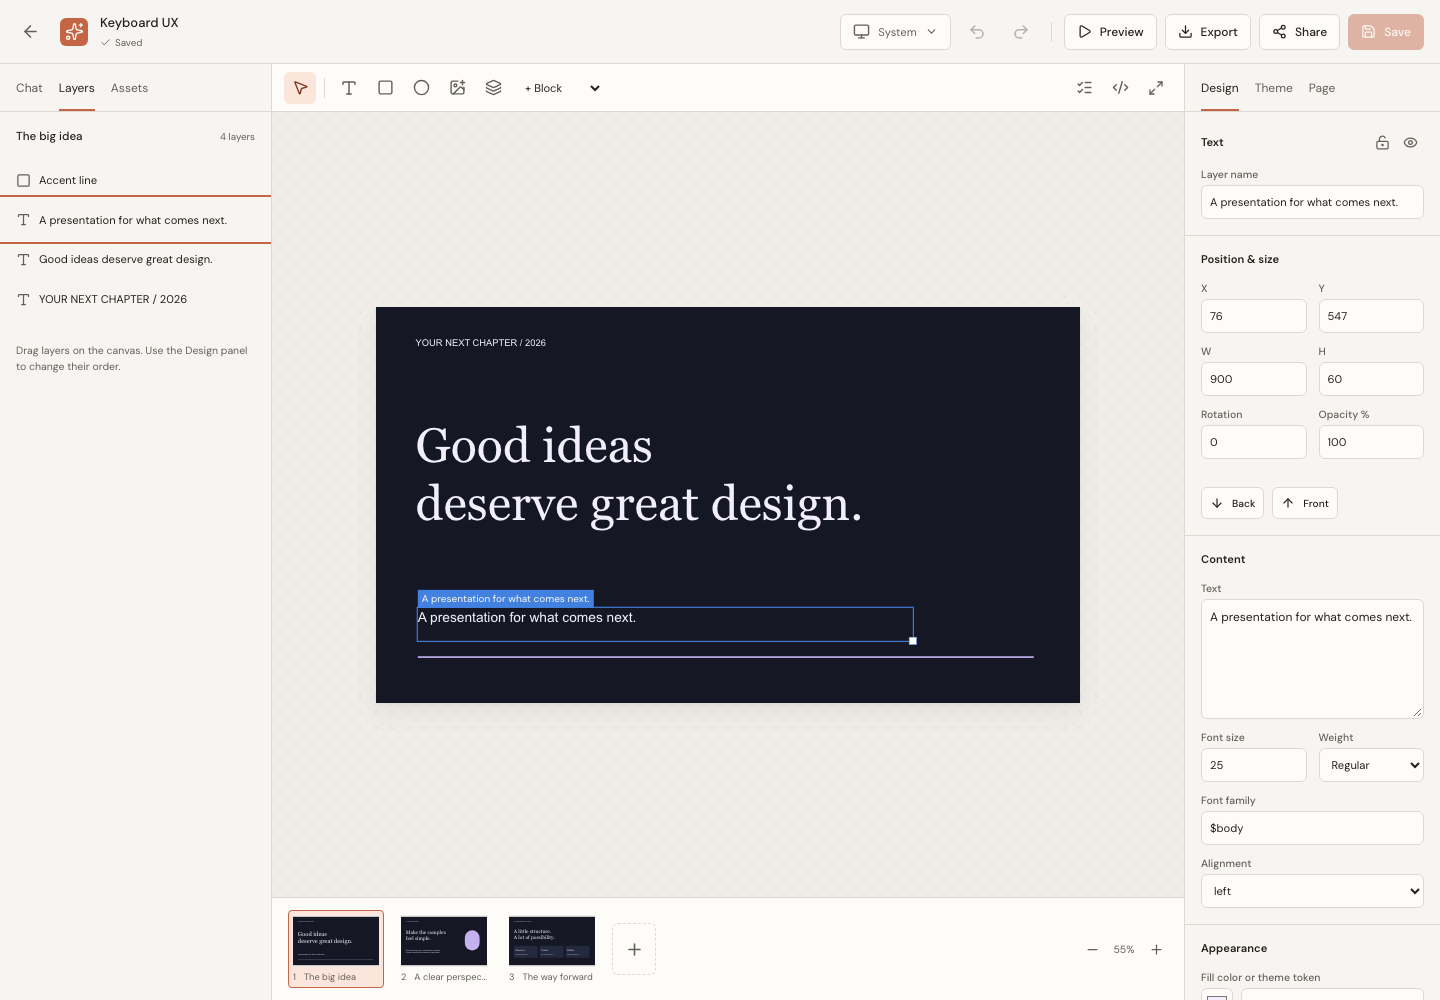
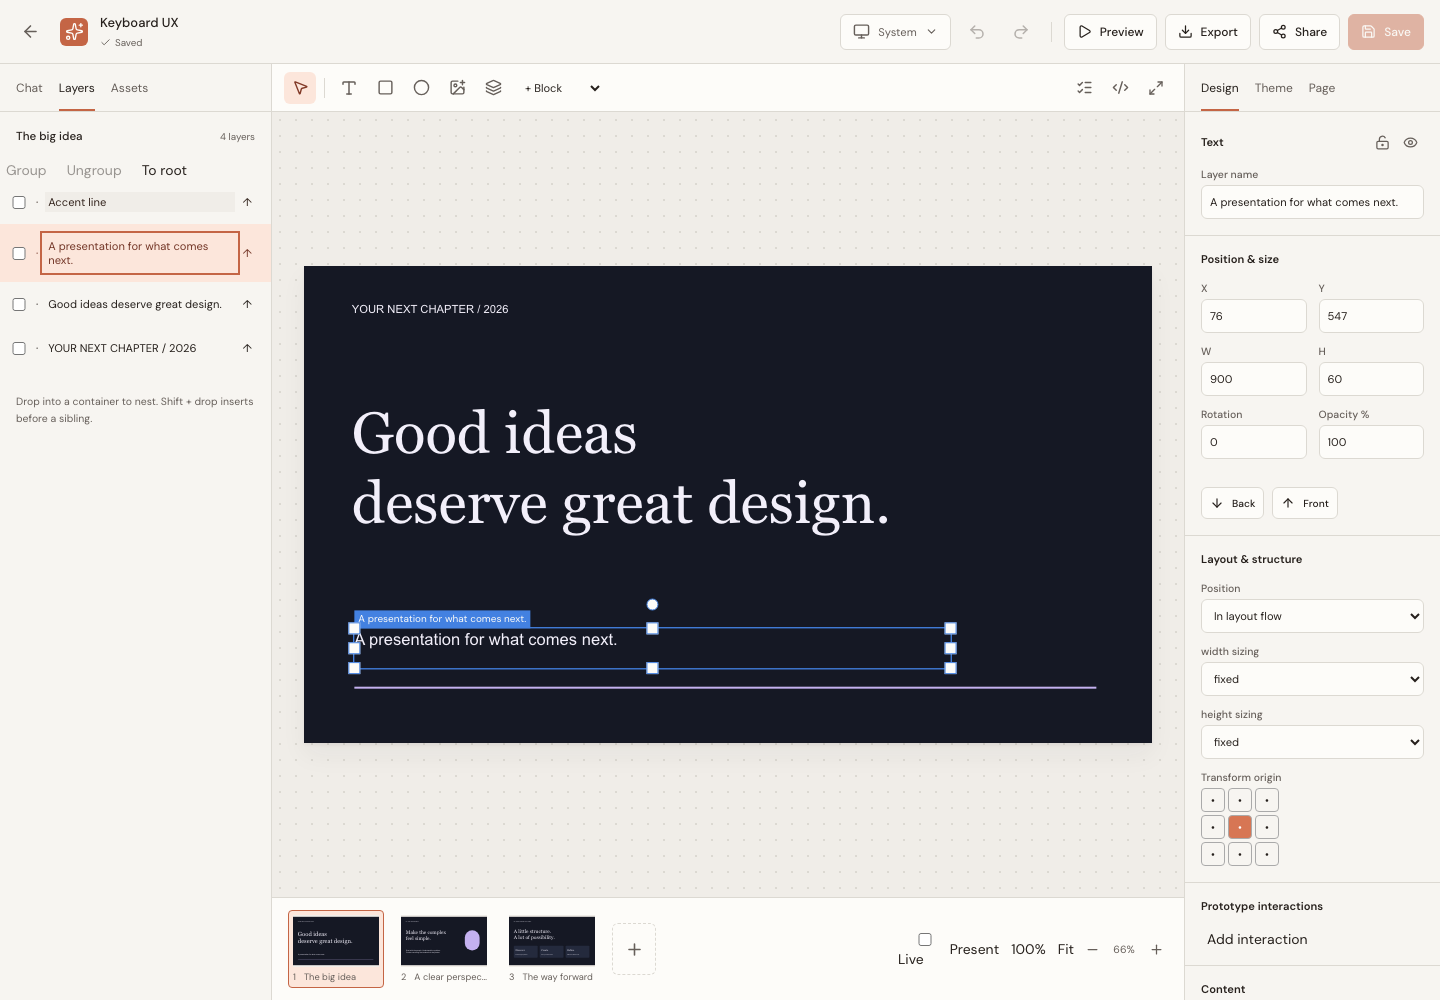
fix(studio): preserve keyboard workflows and release 0.2.2

diff --git a/src/app/scene-view.tsx b/src/app/scene-view.tsx
@@ -24,7 +24,7 @@ export function SceneView({ page, theme, selected, onSelect, doc, pageIndex = 0,
       if (gizmo) { scene?.remove(gizmo.getHelper()); gizmo.dispose(); gizmo = undefined; }
       orbit?.dispose(); orbit = undefined;
       if (scene) { disposeScene(scene); scene = undefined; }
-      if (renderer) { renderer.dispose(); renderer.domElement.remove(); renderer = undefined; }
+      if (renderer) { renderer.dispose(); renderer.forceContextLoss(); renderer.domElement.remove(); renderer = undefined; }
     };
     setError('');
     void (async () => {
@@ -35,7 +35,9 @@ export function SceneView({ page, theme, selected, onSelect, doc, pageIndex = 0,
         renderer = new THREE.WebGLRenderer({ antialias: true, preserveDrawingBuffer: true });
         renderer.setPixelRatio(Math.min(devicePixelRatio, 2)); renderer.shadowMap.enabled = true; element.appendChild(renderer.domElement);
         orbit = new OrbitControls(camera, renderer.domElement); orbit.target.copy(target); orbit.enableDamping = true; orbit.enabled = mode === 'object';
+        let needsRender = true;
         gizmo = new TransformControls(camera, renderer.domElement); gizmo.setMode(transform); scene.add(gizmo.getHelper());
+        gizmo.addEventListener('change', () => { needsRender = true; });
         const object = selected ? objects.get(selected) : undefined;
         if (object && mode === 'object' && onUpdate) gizmo.attach(object);
         let draggedGizmo = false;
@@ -78,7 +80,7 @@ export function SceneView({ page, theme, selected, onSelect, doc, pageIndex = 0,
             const previous = handlers.current.selection; select(event.shiftKey ? values.every(v => previous.includes(v)) ? previous.filter(v => !values.includes(v)) : [...new Set([...previous, ...values])] : values);
           }
         });
-        const resize = () => { renderer?.setSize(element.clientWidth, element.clientHeight); camera.aspect = element.clientWidth / Math.max(1, element.clientHeight); camera.updateProjectionMatrix(); };
+        const resize = () => { renderer?.setSize(element.clientWidth, element.clientHeight); camera.aspect = element.clientWidth / Math.max(1, element.clientHeight); camera.updateProjectionMatrix(); needsRender = true; };
         observer = new ResizeObserver(resize); observer.observe(element); resize();
         let renderedTime = NaN, previousSelection: number[] | undefined;
         renderer.setAnimationLoop(() => {
@@ -86,14 +88,19 @@ export function SceneView({ page, theme, selected, onSelect, doc, pageIndex = 0,
           const current = handlers.current, timeChanged = renderedTime !== current.time;
           if (timeChanged && !gizmo?.dragging) { animateScene(scene, current.document, pageIndex, current.time); renderedTime = current.time; }
           scene.updateMatrixWorld(true);
-          if (mesh && selectedPoints && (timeChanged || previousSelection !== current.selection)) {
+          const selectionChanged = previousSelection !== current.selection;
+          if (mesh && selectedPoints && (timeChanged || selectionChanged)) {
             const index = mesh.geometry.index, count = mesh.geometry.getAttribute('position').count;
             const ids = [...new Set(current.mode === 'face' && index ? current.selection.flatMap(i => i * 3 + 2 < index.count ? [index.getX(i * 3), index.getX(i * 3 + 1), index.getX(i * 3 + 2)] : []) : current.selection)].filter(i => i < count);
             const points = ids.flatMap(i => mesh.getVertexPosition(i, point).toArray()); selectedPoints.geometry.dispose(); selectedPoints.geometry = new THREE.BufferGeometry(); selectedPoints.geometry.setAttribute('position', new THREE.Float32BufferAttribute(points, 3));
             if (vertexPoints && mesh instanceof THREE.SkinnedMesh) { const position = vertexPoints.geometry.getAttribute('position'); for (let i = 0; i < count; i++) { mesh.getVertexPosition(i, point); position.setXYZ(i, point.x, point.y, point.z); } position.needsUpdate = true; vertexPoints.geometry.computeBoundingSphere(); }
             previousSelection = current.selection;
           }
-          orbit.update(); renderer.render(scene, camera);
+          // Static authoring should not continuously redraw shadows and skinned meshes.
+          // Orbit damping, transforms, selection, resize and playback still invalidate the view.
+          const cameraChanged = orbit.update();
+          if (needsRender || timeChanged || selectionChanged || cameraChanged) { renderer.render(scene, camera); needsRender = false; }
+          previousSelection = current.selection;
         });
       } catch (e) { cleanup(); if (!disposed) setError(e instanceof Error ? e.message : 'WebGL unavailable'); }
     })();

diff --git a/tests/workspace.spec.ts b/tests/workspace.spec.ts
@@ -52,6 +52,8 @@ test('register, sign in, edit and save a template, find, duplicate, publish and 
     ownedProjects.add(project.id);
     expect(project.document.pages[0].nodes.length).toBeGreaterThan(3);
     await expect(page.getByRole('button', { name: 'Back to workspace' })).toBeVisible();
+    // This workflow verifies the explicit Save response; live autosave has its own coverage.
+    await page.getByRole('checkbox', { name: 'Live', exact: true }).uncheck();
     await fitsViewport(page);
     await page.getByRole('button', { name: 'Add text', exact: true }).click();
     if (mobile) await page.locator('.mobile-editor-nav').getByRole('button', { name: 'Design', exact: true }).click();
@@ -108,10 +110,9 @@ test('register, sign in, edit and save a template, find, duplicate, publish and 
       const published = await publicPage.goto(publicUrl);
       expect(published?.status()).toBe(200);
       const textNode = savedProject.document.pages[0].nodes.find(node => node.text === text)!;
-      const publishedText = publicPage.locator(`[data-node-id="${textNode.id}"] text`);
+      const publishedText = publicPage.locator(`[data-design-node="${textNode.id}"]`);
       await expect(publishedText).toBeVisible();
-      // SVG lays wrapped lines in separate tspans without DOM whitespace.
-      expect((await publishedText.locator('tspan').allTextContents()).join(' ')).toBe(text);
+      await expect(publishedText).toHaveText(text);
     } finally { await publicContext.close(); }
     await page.getByRole('button', { name: 'Close dialog', exact: true }).click();
     await page.getByRole('button', { name: 'Export', exact: true }).click();

diff --git a/tests/keyboard-ux.spec.ts b/tests/keyboard-ux.spec.ts
@@ -10,6 +10,7 @@ test.beforeEach(async ({ page, baseURL }) => {
   const { project } = await response.json();
   await page.goto(`/?project=${project.id}`);
   await expect(page.locator('.node-target').first()).toBeVisible();
+  await page.getByRole('checkbox', { name: 'Live', exact: true }).uncheck();
 });
 
 async function mobilePanel(page: Page, name: string) {
@@ -116,8 +117,10 @@ test('ordinary controls and preview do not inherit destructive canvas shortcuts'
   await page.getByRole('button', { name: 'Edit', exact: true }).click();
   await expect(page.locator('.node-target')).toHaveCount(count);
   await expect(page.getByRole('button', { name: 'Save', exact: true })).toBeDisabled();
-  // The actual canvas remains an editing context.
-  await target.click();
+  // Click the body away from the new middle-edge transform handles, which
+  // overlap the center of short text nodes at the mobile fit scale.
+  const bounds = (await target.boundingBox())!;
+  await target.click({ position: { x: bounds.width / 4, y: bounds.height / 2 } });
   await expect(target).toBeFocused();
   await page.keyboard.press('ArrowRight');
   await expect(page.getByRole('button', { name: 'Save', exact: true })).toBeEnabled();

diff --git a/tests/advanced-editor-ui.spec.ts b/tests/advanced-editor-ui.spec.ts
@@ -1,12 +1,11 @@
-import { test, expect, type Page, type TestInfo } from '@playwright/test';
-import { randomUUID } from 'node:crypto';
+import { test, expect } from './authenticated-browser';
+import type { Page, TestInfo } from '@playwright/test';
 import { createDocument } from '../src/shared/catalog';
 import type { DesignDocument, Project } from '../src/shared/schema';
 import type { DesignSystem } from '../src/shared/design-systems';
 
 async function setup(page: Page, baseURL: string, document: DesignDocument) {
   const headers = { Origin: new URL(baseURL).origin };
-  expect((await page.request.post('/api/auth/register', { headers, data: { email: `advanced-${randomUUID()}@studio.test`, password: randomUUID() + randomUUID() } })).status()).toBe(201);
   const response = await page.request.post('/api/projects', { headers, data: { name: document.name, kind: document.kind, document } });
   expect(response.status()).toBe(201);
   const project = (await response.json() as { project: Project }).project;

diff --git a/tests/structured-editor-ui.spec.ts b/tests/structured-editor-ui.spec.ts
@@ -1,12 +1,11 @@
-import { test, expect, type Page, type TestInfo } from '@playwright/test';
+import { test, expect } from './authenticated-browser';
+import type { Page, TestInfo } from '@playwright/test';
 import { randomUUID } from 'node:crypto';
 import { createDocument } from '../src/shared/catalog';
 import type { DesignDocument, Project } from '../src/shared/schema';
 
 async function createProject(page: Page, baseURL: string, document: DesignDocument) {
   const headers = { Origin: new URL(baseURL).origin };
-  const registration = await page.request.post('/api/auth/register', { headers, data: { email: `structured-${randomUUID()}@studio.test`, password: randomUUID() + randomUUID() } });
-  expect(registration.status()).toBe(201);
   const response = await page.request.post('/api/projects', { headers, data: { name: document.name, kind: document.kind, document } });
   expect(response.status()).toBe(201);
   return (await response.json() as { project: Project }).project;

diff --git a/src/shared/api-reference.ts b/src/shared/api-reference.ts
@@ -54,6 +54,6 @@ export function openApiDocument(schemas: Record<string, unknown>) {
       responses: { '2XX': { description: 'Success; exports return file bytes with Content-Type and Content-Disposition' }, '400': { description: 'Invalid request' }, '401': { description: 'Authentication required' }, '403': { description: 'Insufficient scope' }, '404': { description: 'Resource not found' }, '409': { description: 'Revision or merge conflict' } },
     };
   }
-  return { openapi: '3.1.0', info: { title: 'Design Studio AI', version: '0.2.0' }, servers: [{ url: '/' }], security: [{ bearerAuth: [] }],
+  return { openapi: '3.1.0', info: { title: 'Design Studio AI', version: '0.2.2' }, servers: [{ url: '/' }], security: [{ bearerAuth: [] }],
     components: { securitySchemes: { bearerAuth: { type: 'http', scheme: 'bearer' } }, schemas: Object.fromEntries(Object.entries(schemas).filter(([name]) => /^[\w.-]+$/.test(name))) }, paths };
 }

diff --git a/packages/cli/src/dsa.ts b/packages/cli/src/dsa.ts
@@ -12,7 +12,7 @@ import { registerDesignSystemCommands } from './design-system-commands';
 import { Client, CliError, inputJson, inputText, nonnegativeNumber, output, outputFile, positiveInteger, secretInput } from './client';
 
 const program = new Command().name('dsa').description('Design Studio AI: structured design workflows for agents. JSON output by default.')
-  .version('0.2.0').option('--url <origin>', 'Server origin; defaults to DESIGN_STUDIO_URL or https://studio.agentkit.best')
+  .version('0.2.2').option('--url <origin>', 'Server origin; defaults to DESIGN_STUDIO_URL or https://studio.agentkit.best')
   .option('--api-key <token>', 'Stateless API token (prefer DESIGN_STUDIO_API_KEY to avoid shell history)')
   .option('--timeout <milliseconds>', 'Request timeout', '180000').option('--json', 'JSON output (default)')
   .showHelpAfterError(false).exitOverride();

diff --git a/tests/agent-capability-parity.test.ts b/tests/agent-capability-parity.test.ts
@@ -40,7 +40,7 @@ test('MCP, CLI and browser tools share versioned libraries, discovery and multip
       return JSON.parse(output.stdout) as T;
     };
     const rootVersion = await promisify(execFile)(process.execPath, ['packages/cli/dist/dsa.js', '--version'], { timeout: 20000 });
-    assert.equal(rootVersion.stdout.trim(), '0.2.0');
+    assert.equal(rootVersion.stdout.trim(), '0.2.2');
     let rpcId = 0;
     const mcpRaw = async (name: string, args: Record<string, unknown>) => {
       const response = await fetch(baseUrl + '/mcp', { method: 'POST', headers: { Authorization: `Bearer ${token}`, 'Content-Type': 'application/json', Accept: 'application/json, text/event-stream', 'MCP-Protocol-Version': '2025-11-25' }, body: JSON.stringify({ jsonrpc: '2.0', id: ++rpcId, method: 'tools/call', params: { name, arguments: args } }) });

diff --git a/tests/cli.test.ts b/tests/cli.test.ts
@@ -89,7 +89,7 @@ test('standalone built executable prints help and version without checkout depen
   const standalone = join(directory, 'standalone.mjs'); await copyFile(executable, standalone);
   const help = await run(['--help'], { executable: standalone });
   assert.equal(help.code, 0); assert.match(help.stdout, /projects/); assert.match(help.stdout, /google-slides/);
-  const version = await run(['--version'], { executable: standalone }); assert.equal(version.code, 0); assert.equal(version.stdout.trim(), '0.2.0');
+  const version = await run(['--version'], { executable: standalone }); assert.equal(version.code, 0); assert.equal(version.stdout.trim(), '0.2.2');
 });
 
 test('schema and templates use the actual shared document format', async () => {

diff --git a/server/mcp.ts b/server/mcp.ts
@@ -55,7 +55,7 @@ export async function handleMcp(c: Context<Env>, app: Hono<Env>) {
       "Supported MCP protocol: 2025-11-25 and SDK legacy compatibility.",
     );
   const server = new McpServer(
-    { name: "design-studio-ai", version: "0.2.0" },
+    { name: "design-studio-ai", version: "0.2.2" },
     {
       instructions:
         "An agent-first design workspace. All tools act as the authenticated owner. Get the current project revision before changing a document. AI generation produces a draft which must be saved explicitly. Publishing makes an immutable snapshot public.",

diff --git a/README.md b/README.md
@@ -9,9 +9,10 @@ An agent-first design workspace for web interfaces, slides, reports, wireframes,
 ## Capabilities
 
 - Responsive project library with search, filters, sorting, duplication, and saved designs.
-- Chat-assisted design, direct object editing, layers, pages, themes, reusable blocks, assets, 3D controls, and timeline playback.
+- Structured flex/grid layouts, nested groups, Ant and shadcn-style components, versioned reusable design systems, and live human/agent editing.
+- Mesh/UV/rigging tools, textured animated 3D scenes, multi-layer keyframe editing, presentation modes, font/model discovery and interactive API docs.
 - BYOK text, image, speech, music/effects, and video generation, plus supported source-media edits. See [providers](docs/providers.md).
-- JSON, HTML, SVG, PNG, PDF, PowerPoint, WebM, supported MP4 recording, and authorized Google Slides export.
+- JSON, HTML, SVG, PNG, PDF, PowerPoint, WebM, supported MP4 recording, React prototype ZIP, GLB/glTF, and authorized Google Slides export.
 - Immutable public snapshots, REST, authenticated Streamable HTTP MCP with OAuth/API keys, experimental browser WebMCP, and the `dsa` CLI with an [agent skill](skills/design-studio-ai/SKILL.md).
 - Cloudflare hosting or Docker self-hosting with persistent SQLite/files.
 - Email/password and optional GitHub sign-in, with explicit account linking in Settings.
@@ -68,7 +69,7 @@ The package is **not published to the npm registry**. To build and install from 
 cd packages/cli
 npm pack
 cd ../..
-npm install -g ./packages/cli/bestagentkits-design-studio-ai-0.2.0.tgz
+npm install -g ./packages/cli/bestagentkits-design-studio-ai-0.2.2.tgz
 dsa --help
 dsa schema
 dsa projects list
@@ -87,7 +88,7 @@ Run `npm run typecheck`, `npm test`, and `npm run build`. `npm run test:e2e` sta
 - Provider/Google success needs external credentials and was not live-verified in the initial delivery environment. Missing configuration returns useful errors.
 - Google Slides accepts native text/shapes and HTTPS images; unsupported complex nodes fail explicitly. PowerPoint keeps editable text/primitives and rasterizes complex content.
 - Cloud binary export requires imported project assets for remote media, enforces render-size bounds, and limits motion to 60 seconds. MP4 depends on an available encoder. SVG is static; HTML can include the trusted interactive scene/timeline viewer. See [export behavior](docs/architecture.md#rendering-and-export).
-- Cloud motion mixes imported audio/video; browser fallback recordings are silent. 3D object properties persist, while orbit-camera adjustments are temporary preview state.
+- Cloud motion mixes imported audio/video; browser fallback recordings are silent. Serialized camera, lights, mesh/UV data, materials and rigs persist. Live synchronization polls saved revisions every 1.2 seconds.
 - WebMCP is experimental and feature-detected; other browsers retain the human UI and network MCP.
 - Upstream dependency audit findings remain; see [security notes](docs/deployment.md#dependency-security).
 

diff --git a/plans/reports/pr-260908-structured-workspace.md b/plans/reports/pr-260908-structured-workspace.md
@@ -1,0 +1,43 @@
+## End-to-end work summary
+Designs now retain nested layouts, reusable components and editable design systems across human and agent edits. The workspace adds complete presentation navigation, motion tracks, mesh/UV/rig authoring, provider/font discovery and real React/GLB/glTF exports. REST, MCP, WebMCP and CLI use the same validation and revision boundaries.
+
+The implementation was locally reviewed, then integrated with main's keyboard navigation and verified deployment workflow. This PR ships version 0.2.2; the production workflow applies the additive design-system migration before deploying the verified build.
+
+## Subagent delegation
+Implementation verification used completion_review, core_verification and export_parity. Reviews and focused export/browser checks completed; captured-image presets and curl URL findings were resolved. Shipping integration, verification and deployment are handled in the current task.
+
+## Technical decisions
+- Optional document fields preserve legacy geometry; hierarchy and layout are resolved by shared code.
+- Immutable design-system versions and project revisions preserve owner authorization and explicit conflicts.
+- Human/agent edits reconcile through three-way merging with 1.2-second live polling.
+- WebGL redraws on changes and releases replaced contexts to avoid static authoring consuming GPU resources.
+- Production deployment retains existing variables and secrets; migrations are additive.
+
+## Deviations from plan
+No requested feature was removed. Runtime boundaries remain documented: live updates use polling, structured PPTX pages rasterize, and React output is a runnable frontend without a generated business backend.
+
+## Completion evidence
+- Accepted scope and format boundaries: [implementation status](plans/260908-1632-structured-design-workspace/reports/implementation-status.md).
+- Local typecheck, CLI build, 137 unit/integration tests and production build passed on the integrated branch. Full browser suite is being revalidated after WebGL cleanup.
+- Review: prior implementation findings resolved; integrated keyboard behavior retained.
+- CI: pending PR creation.
+- UI screenshots: [nested layers](plans/260908-1716-keyboard-ux/reports/layers-desktop.png), [mobile layers](plans/260908-1716-keyboard-ux/reports/layers-mobile.png).
+- Shipping evidence: [delivery journal](plans/reports/ship-260908-1814-structured-workspace.md).
+
+## Checklist
+- [x] Shared contracts, editor, renderer and agent clients implemented.
+- [x] Additive migration and existing deployment secret handling preserved.
+- [x] Independent implementation review findings resolved.
+- [ ] Integrated full browser suite and PR CI passed.
+- [ ] Main deployment and live runtime verified.
+
+## Human actions required
+None.
+
+## Linked Issues
+Closes #3 — structured design and agent authoring workflows.
+
+## Ship Mode
+- Mode: official
+- Target: main
+- Writing language: en (source: default; fallback: none)
